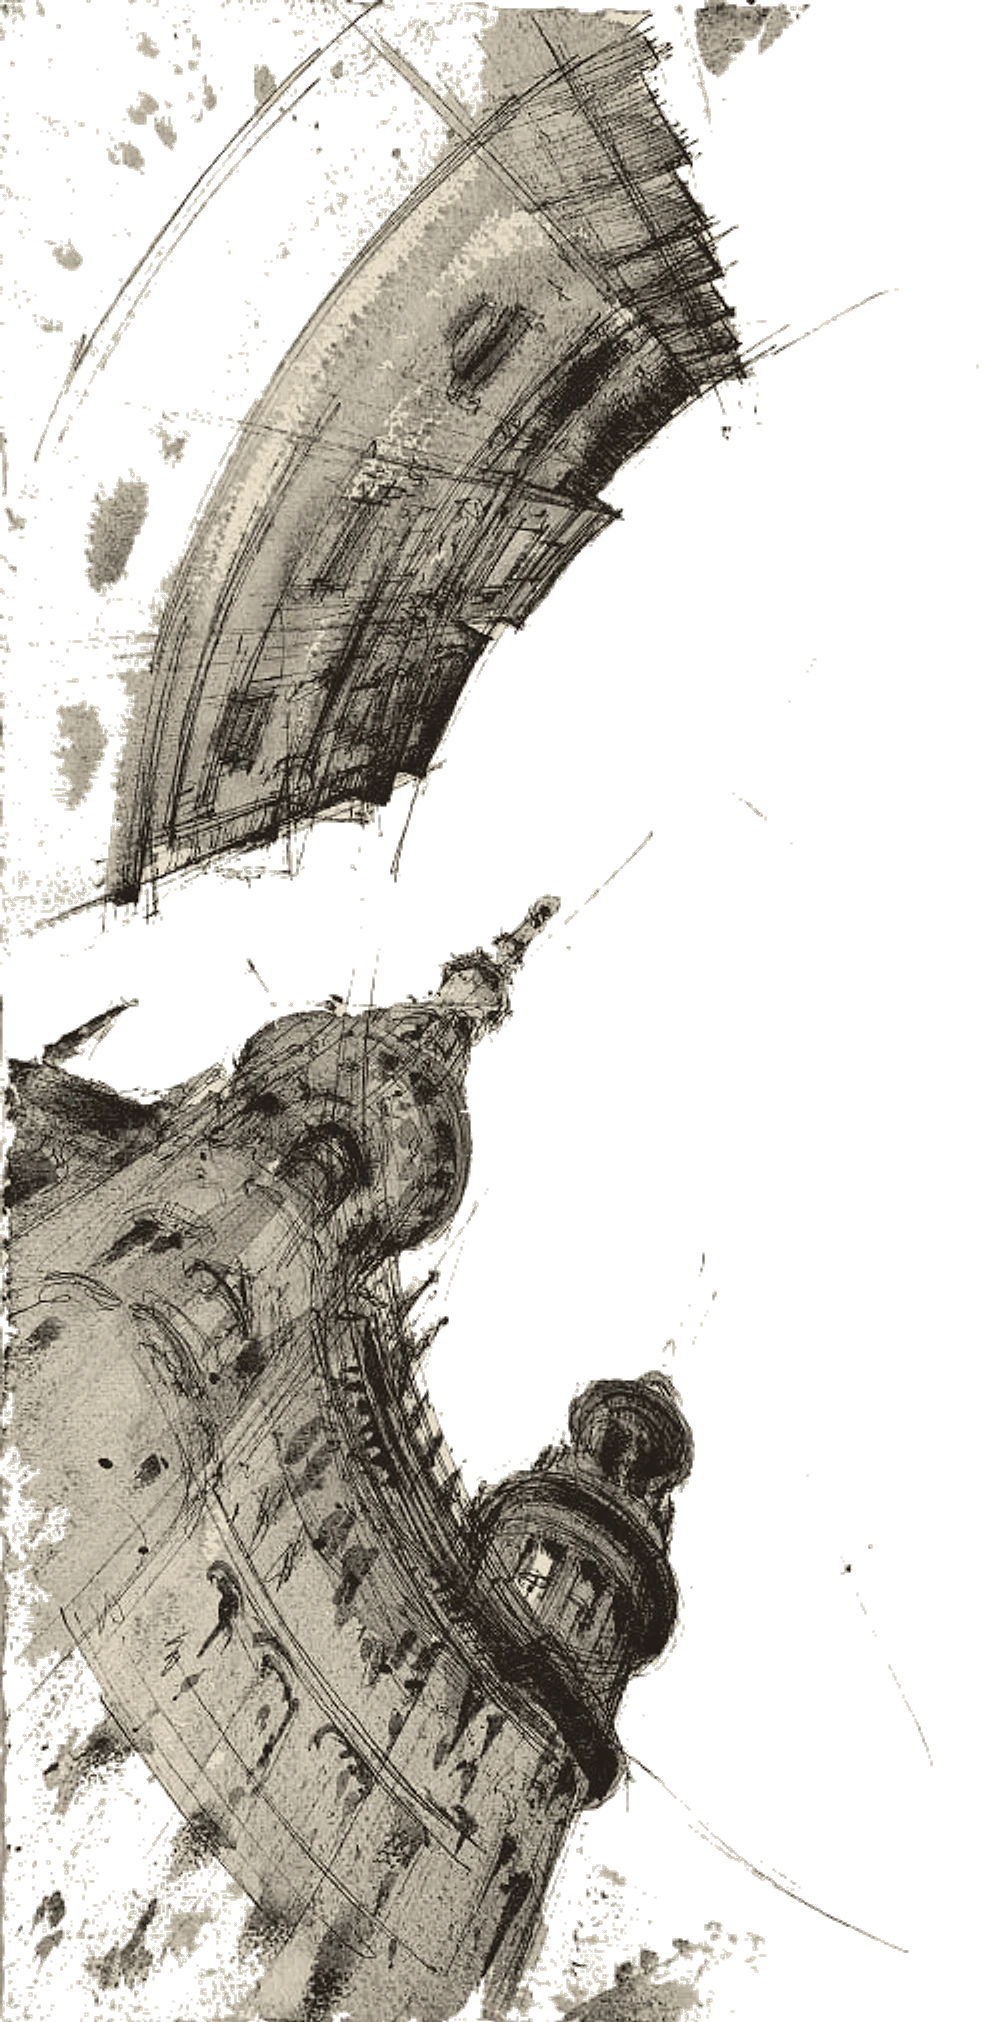
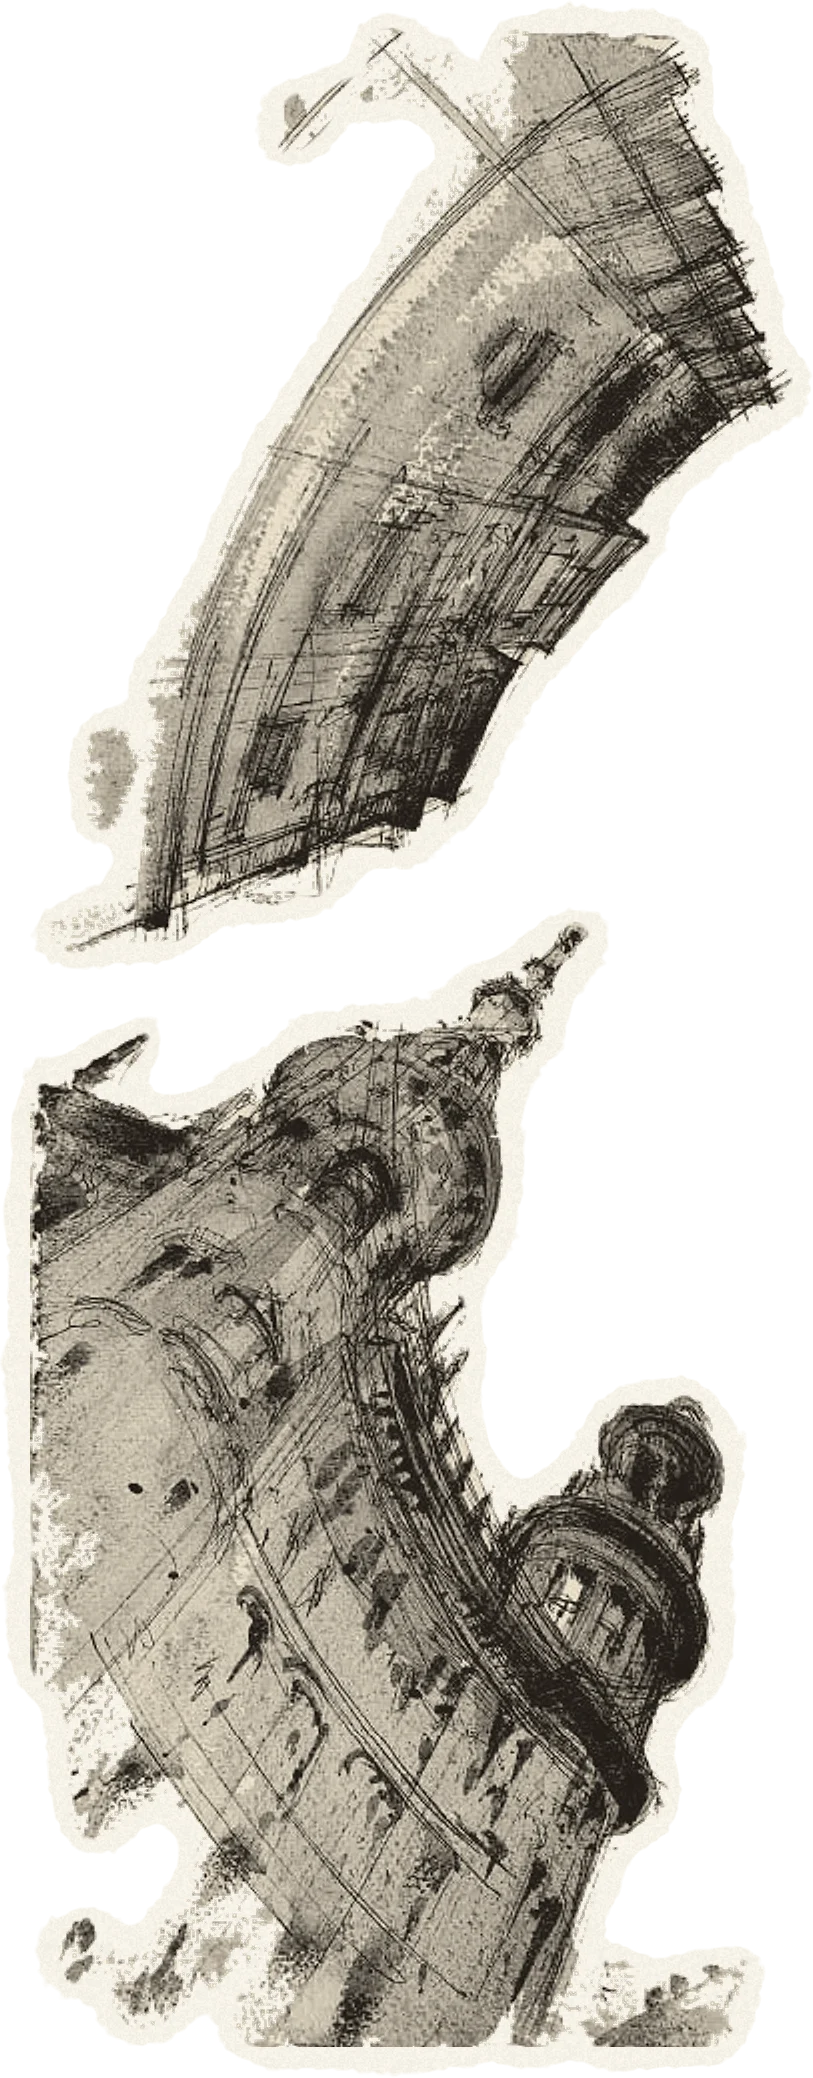
Cut the tower sketch out in paper and print photos in ink
The tower sketch gets a torn paper border like the other stickers, drawn
larger and standing right beside the door. Every photo scrap is now
reprinted as ink on paper, so the colour film stills read black and white.

diff --git a/app/components/collage/PaperScrap.tsx b/app/components/collage/PaperScrap.tsx
@@ -115,6 +115,28 @@ export const InkStamp = ({ name, width, color = PAPER.ink, opacity = 0.88, ...pr
   );
 };
 
+const INK = new THREE.Color(PAPER.ink);
+const INK_PAPER = new THREE.Color(PAPER.paper);
+
+// Reprints a photo as ink on paper: colour dropped, the darks pooled into
+// solid ink and the highlights left as bare paper, with a little grain.
+const inkPrintMaterial = (map: THREE.Texture) => {
+  const material = new THREE.MeshBasicMaterial({ map, transparent: true, alphaTest: 0.02 });
+  material.onBeforeCompile = (shader) => {
+    shader.uniforms.inkColor = { value: INK };
+    shader.uniforms.paperColor = { value: INK_PAPER };
+    shader.fragmentShader = shader.fragmentShader
+      .replace('#include <common>', '#include <common>\nuniform vec3 inkColor;\nuniform vec3 paperColor;')
+      .replace('#include <map_fragment>', `#include <map_fragment>
+        float tone = pow(dot(diffuseColor.rgb, vec3(0.2126, 0.7152, 0.0722)), 1.0 / 2.2);
+        tone += (fract(sin(dot(vMapUv, vec2(12.9898, 78.233))) * 43758.5453) - 0.5) * 0.06;
+        tone = smoothstep(0.1, 0.82, tone);
+        diffuseColor.rgb = mix(inkColor, paperColor, tone);`);
+  };
+  material.customProgramCacheKey = () => 'ink-print';
+  return material;
+};
+
 interface PhotoProps extends GroupProps {
   name: PhotoName;
   width: number;
@@ -122,21 +144,22 @@ interface PhotoProps extends GroupProps {
   signature?: string;
 }
 
-// A torn photo scrap. The shadow reuses the photo's alpha so it follows the tear.
+// A torn photo scrap, printed in ink. The shadow reuses the photo's alpha so it
+// follows the tear.
 export const PhotoScrap = ({ name, width, signature, children, ...props }: PhotoProps) => {
   const texture = useCrispTexture(PHOTOS[name]);
   const height = width * aspectOf(texture);
   const shadow = useMemo(() => new THREE.MeshBasicMaterial({
     map: texture, color: '#000', transparent: true, opacity: 0.28, depthWrite: false,
   }), [texture]);
+  const material = useMemo(() => inkPrintMaterial(texture), [texture]);
   return (
     <group {...props}>
       <mesh material={shadow} position={shadowOffset(Math.max(width, height))}>
         <planeGeometry args={[width, height]} />
       </mesh>
-      <mesh>
+      <mesh material={material}>
         <planeGeometry args={[width, height]} />
-        <meshBasicMaterial map={texture} transparent alphaTest={0.02} />
       </mesh>
       {signature && (
         <Text font={PENCIL_FONT} fontSize={width * 0.065} color={PAPER.graphite} fillOpacity={0.85}

diff --git a/app/components/collage/CollageBackdrop.tsx b/app/components/collage/CollageBackdrop.tsx
@@ -133,10 +133,11 @@ const HeroWall = ({ spread }: { spread: number }) => {
 const DESCENT: { name: PhotoName; width: number; position: [number, number, number] }[] = [
   // Top to bottom: the tower sketch, the skyscrapers, then the bridge.
   // Kept below y≈-9 so none show from the hero.
-  // The tower sketch is tall (height ≈ 2x width), so its centre sits low enough
-  // that its top stays out of the hero. The skyscrapers and bridge are small
-  // and further down, so they read as further away.
-  { name: 'sketchTowers', width: 11, position: [-14, -24, -2] },
+  // The tower sketch is tall (height ≈ 2.5x width), so its centre sits low
+  // enough that its top stays out of the hero. It stands just beside the door;
+  // the skyscrapers and bridge are small and further out, so they read as
+  // further away.
+  { name: 'sketchTowers', width: 13, position: [-9.5, -24, 0] },
   { name: 'angelWings', width: 4.5, position: [6, -12, -8] },
   { name: 'petronas', width: 2.8, position: [15, -30, -6] },
   { name: 'bridge', width: 4.5, position: [16, -31, 5] },
